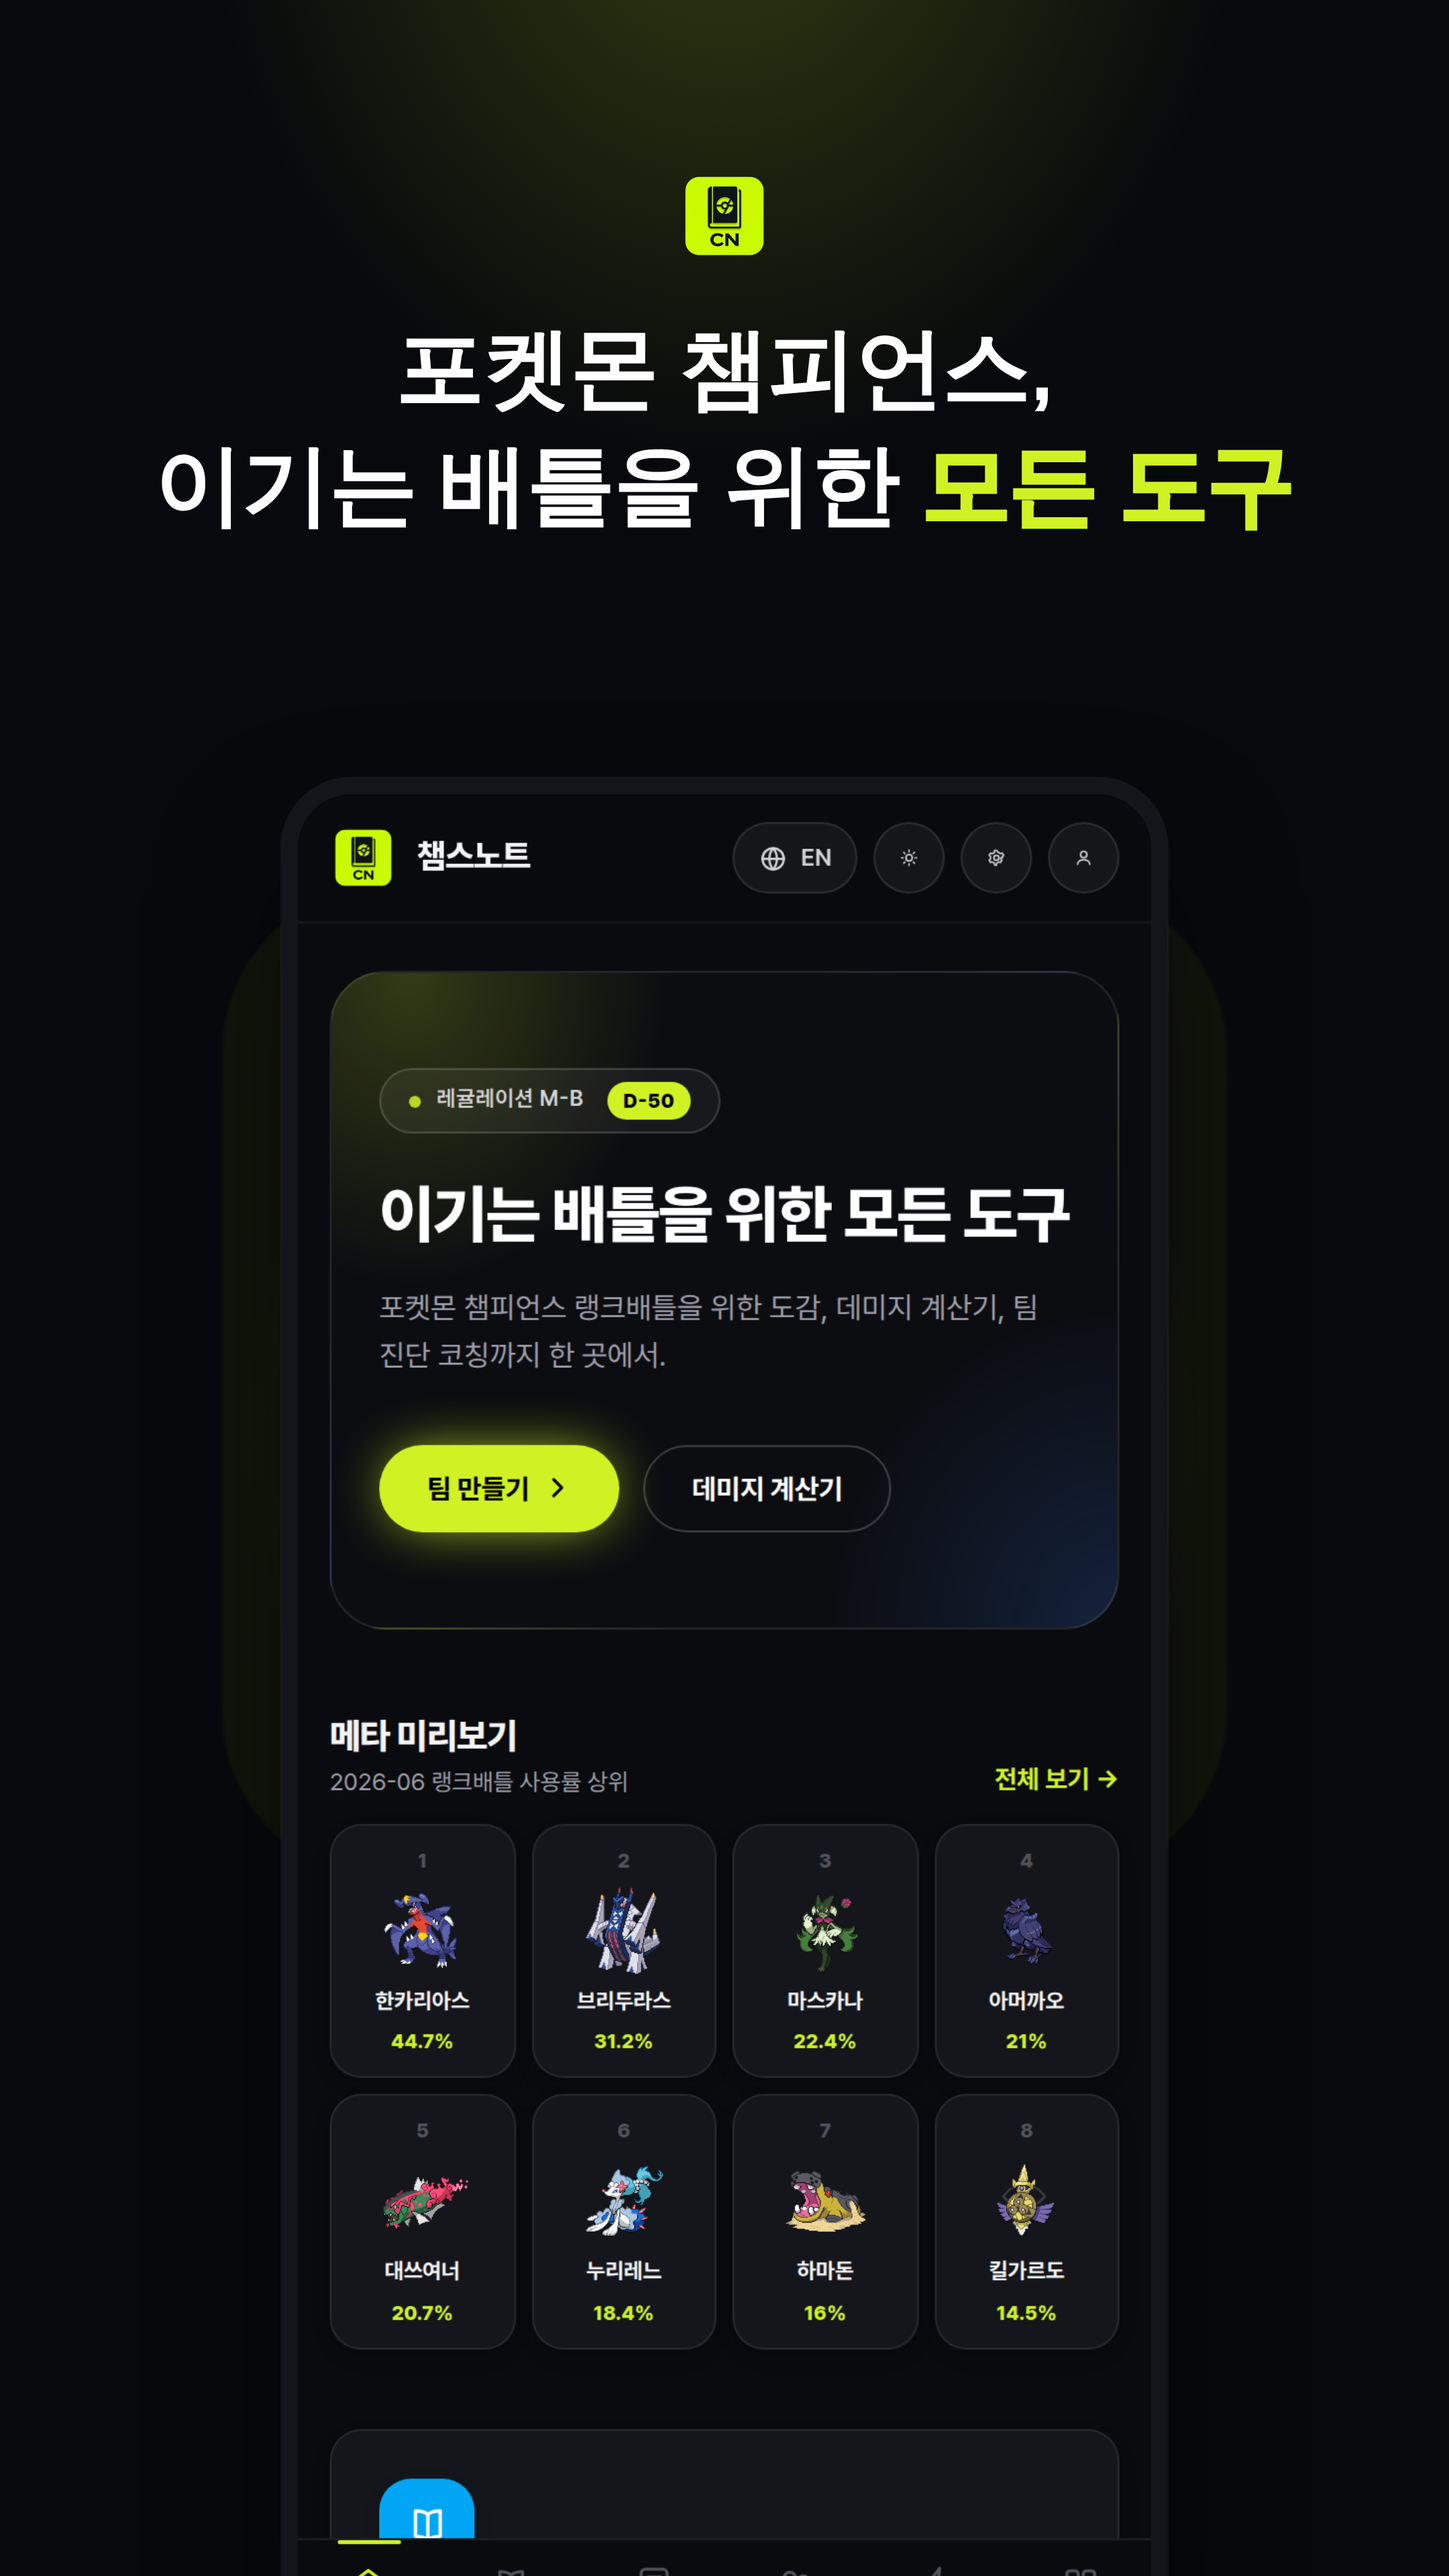
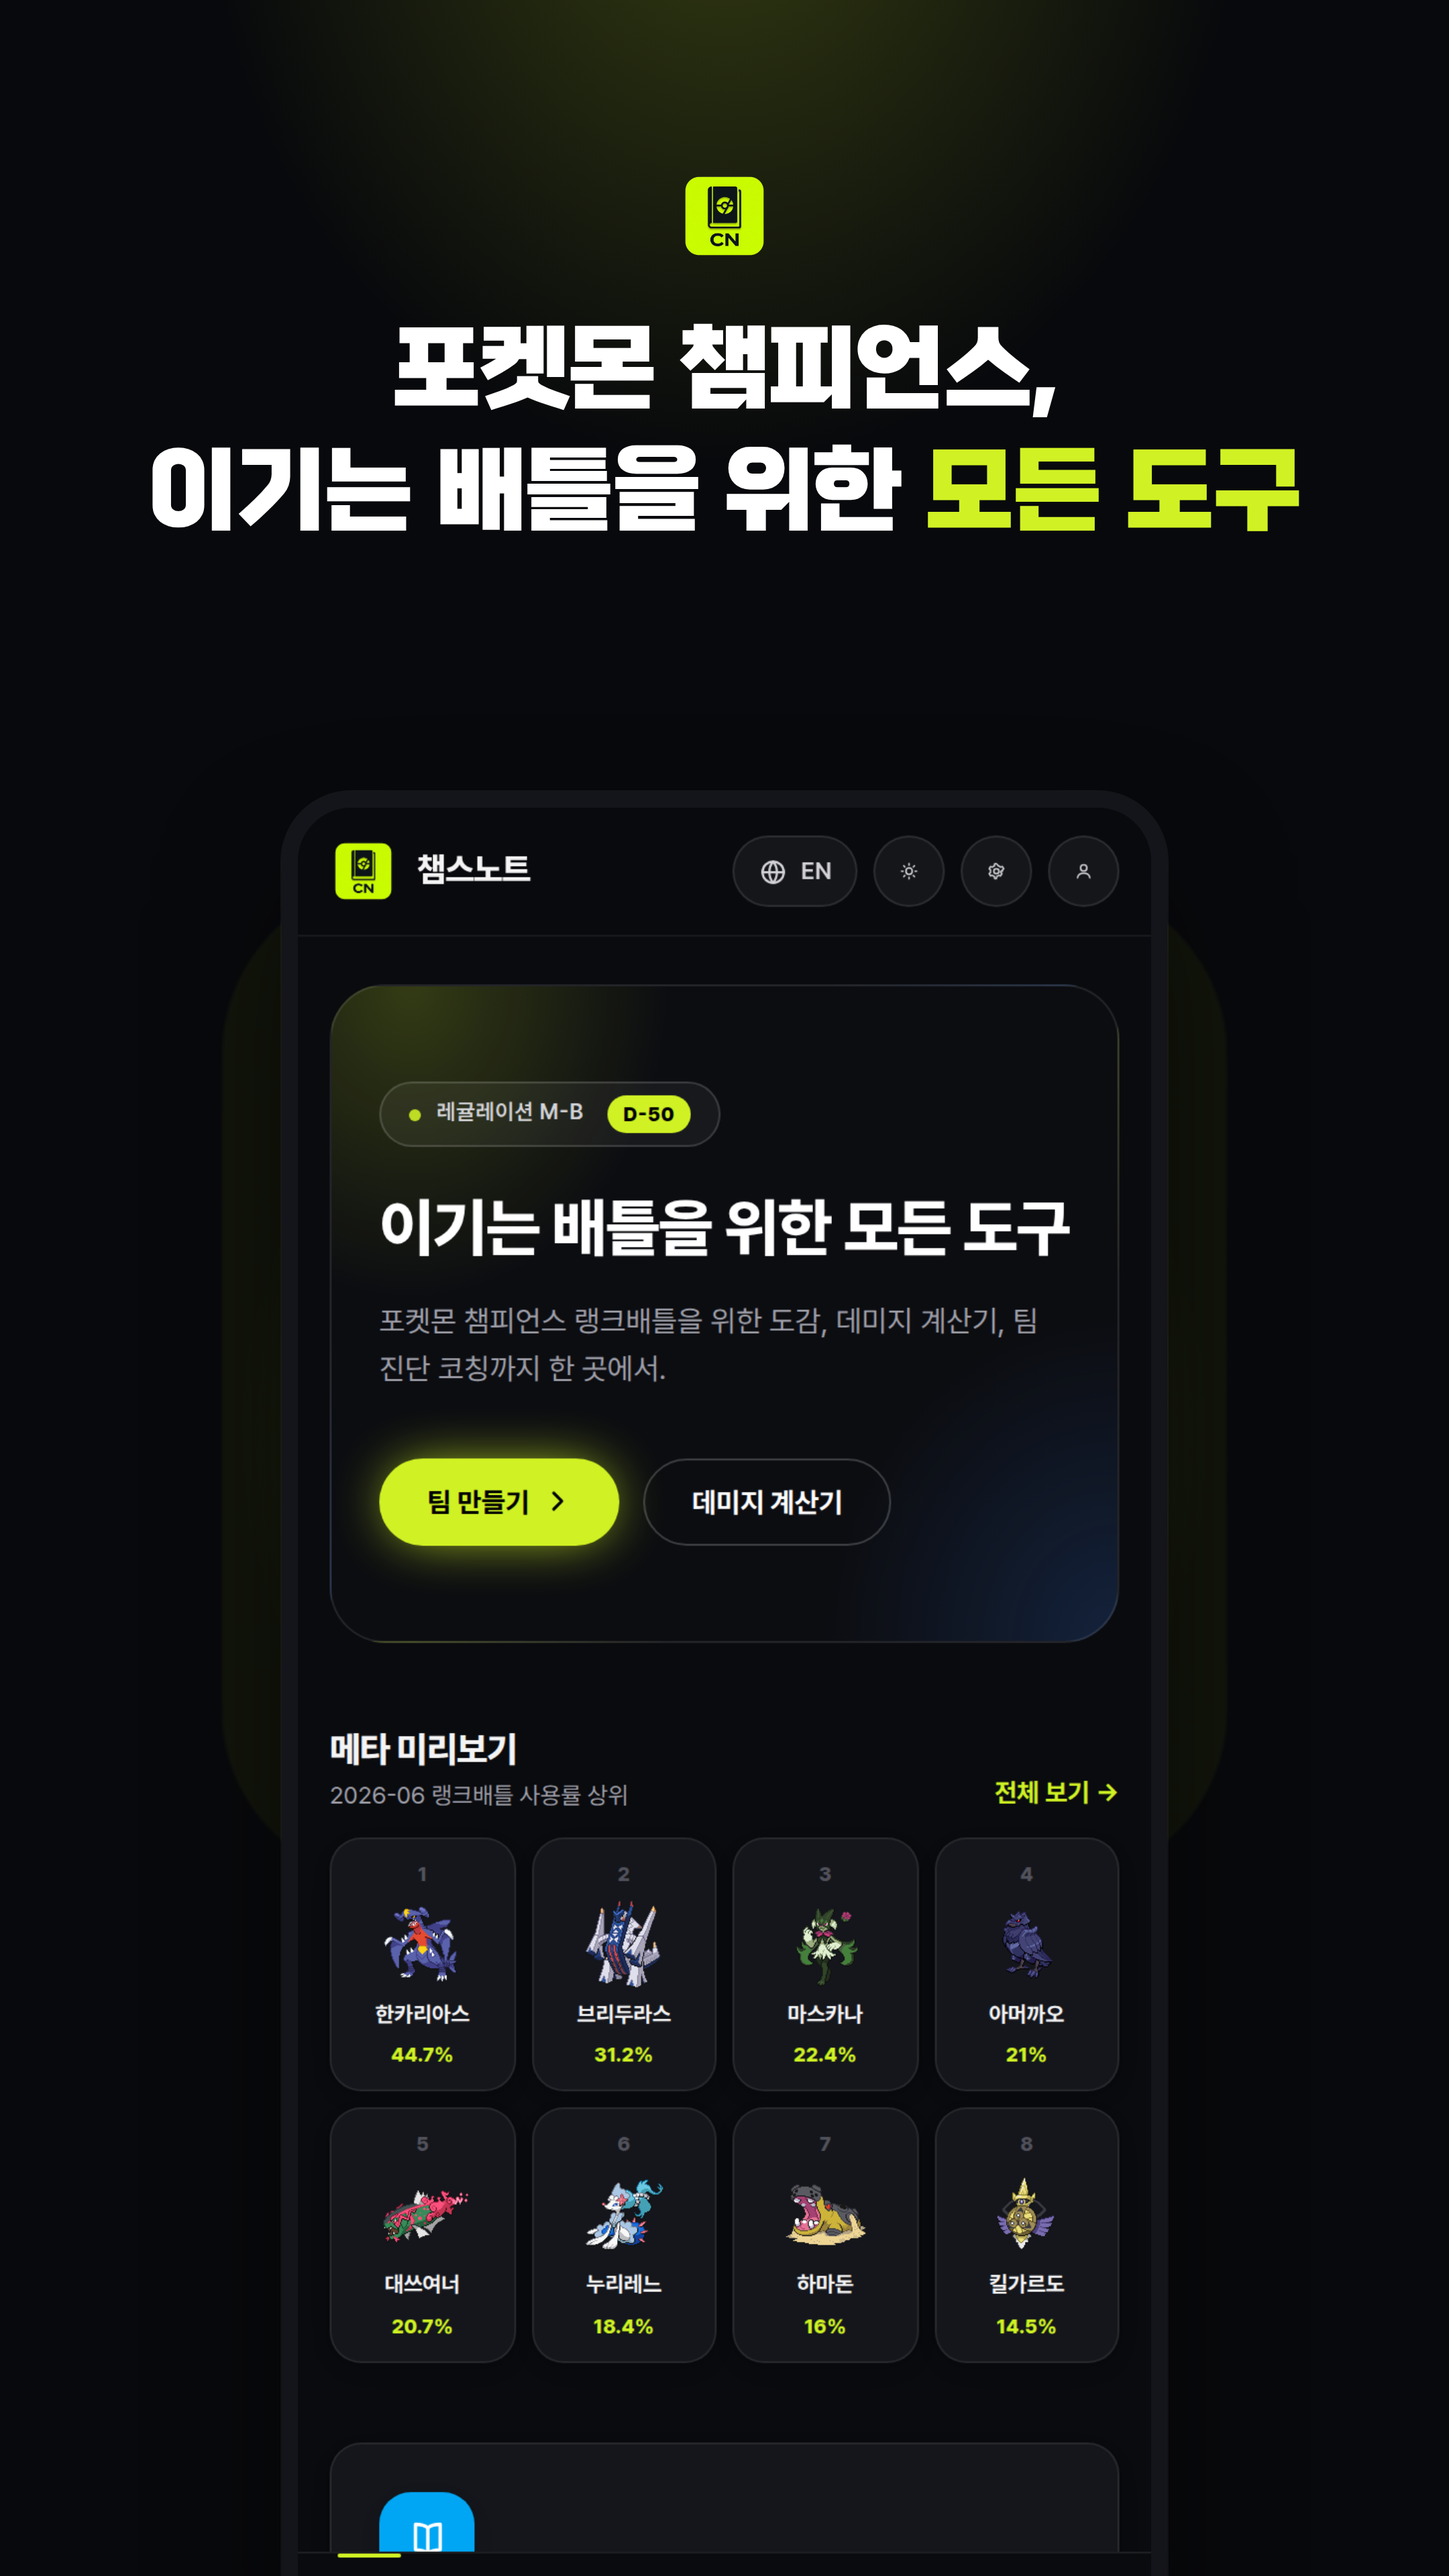
스토어 이미지 헤드라인 폰트 이사만루체(Bold) 적용
- 사용자 제공 esamanru Bold(공게임즈, 상업용 무료)로 7종 헤드라인 렌더
- 이미지에 래스터 렌더링(폰트 파일 미배포). README에 폰트 출처 명시

Claude-Session: https://claude.ai/code/session_01S6s9RySqMnGRqk26k7ZQa5

diff --git a/docs/store-assets/README.md b/docs/store-assets/README.md
@@ -42,3 +42,6 @@
 
 > ⚠ 실제 등록 시 필요한 값(패키지명 예: `dev.champsnote.app`, AdMob 앱/광고단위 ID)은
 > 개발자 계정에서 발급해 채워야 합니다. 임의값을 넣지 마세요.
+
+## 폰트
+스토어 이미지 헤드라인: **이사만루체(Esamanru) Bold** — 공게임즈 배포, 상업용 무료 폰트. (이미지에 래스터로 렌더링, 폰트 파일 미배포)
